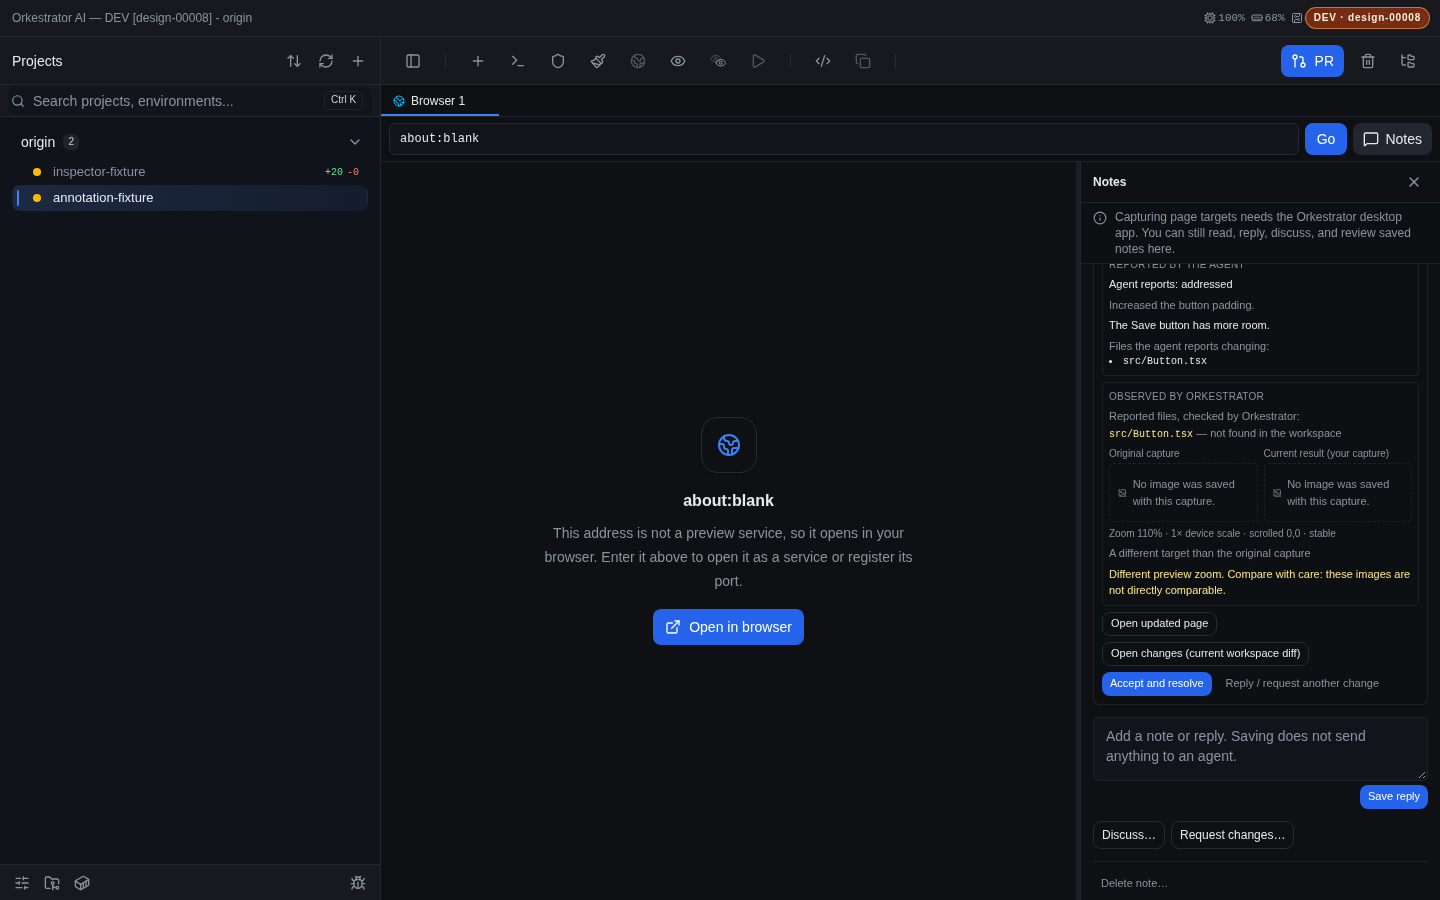
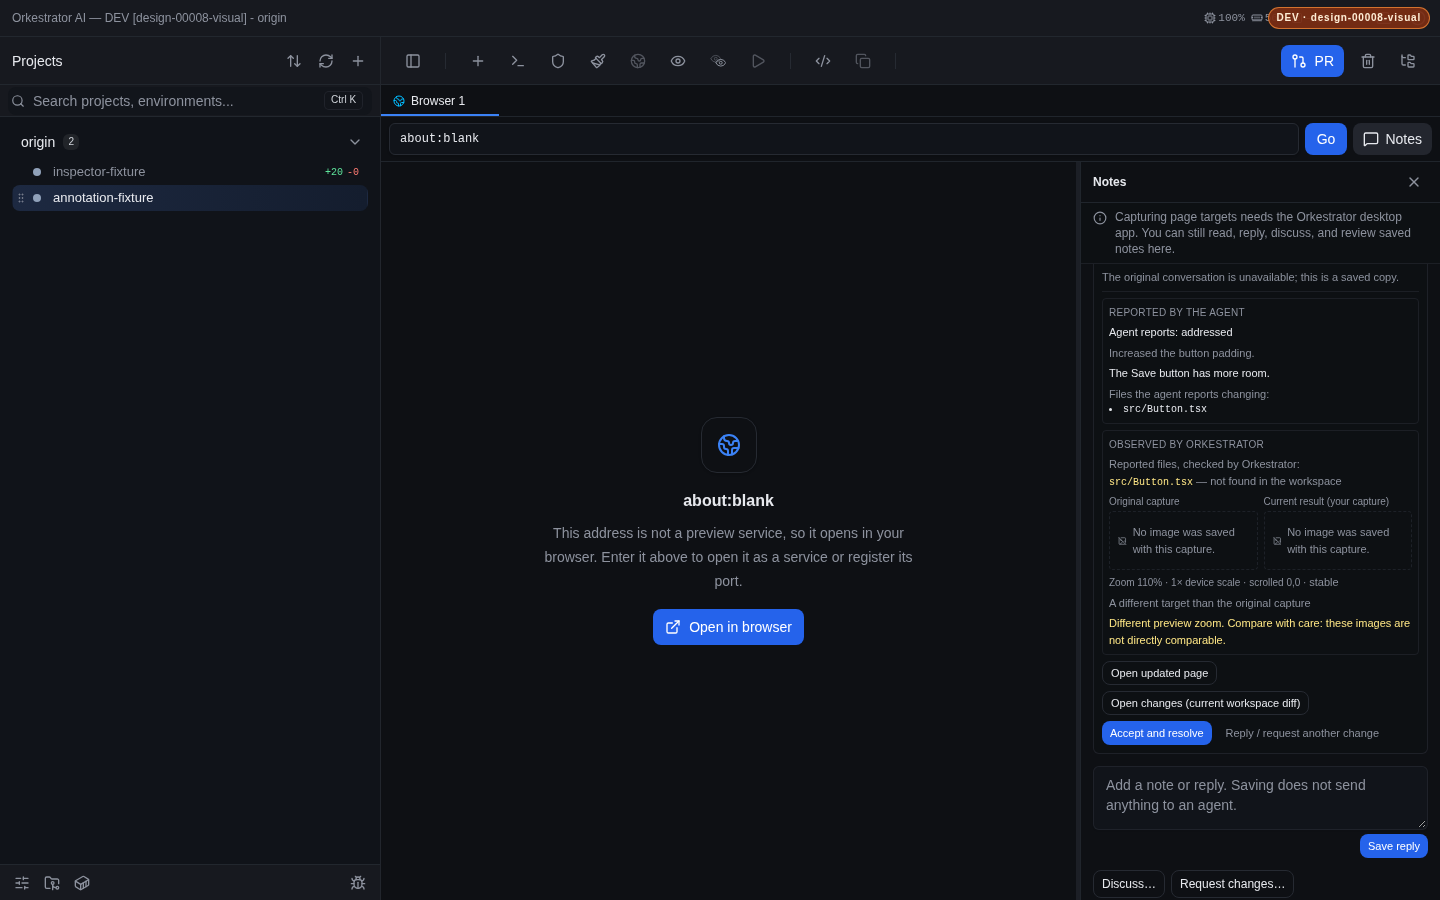
fix(web): address inspector and annotation typography review

diff --git a/design/00008-small-text-errors-design-annotations.html b/design/00008-small-text-errors-design-annotations.html
@@ -236,27 +236,29 @@
       <h2>Verification</h2>
       <pre><code>mise run test:logged -- --name web-typecheck -- bun run --cwd apps/web typecheck
 NODE_ENV=test mise run test:logged -- --name design-annotations -- bun test --cwd apps/web ./src/components/design ./src/components/browser/annotations --parallel=2 --only-failures
+mise run test:logged -- --name inspector-layout -- bun scripts/loopback-network.ts --free-port ORKESTRATOR_E2E_PORT -- bunx playwright test --config e2e/playwright.config.ts e2e/DesignCanvas.spec.ts --grep 'long computed width' --workers=2
 mise run format:check
 mise run lint</code></pre>
       <p class="note">
         React tests in this repo need <code>NODE_ENV=test</code> in build shells. Real-browser
-        check: use the <code>design-00008</code> fixture profile.
+        check: use an isolated fixture profile, such as <code>design-00008-visual</code>.
       </p>
-      <pre><code>env -u DISPLAY -u WAYLAND_DISPLAY ORKESTRATOR_HOST_REACHABILITY_CHECK=off mise run dev:test --profile design-00008 --fixture --headless --no-host-seed --no-agent-credentials --agent-platforms codex</code></pre>
+      <pre><code>env -u DISPLAY -u WAYLAND_DISPLAY ORKESTRATOR_HOST_REACHABILITY_CHECK=off mise run dev:test --profile design-00008-visual --fixture --headless --no-host-seed --no-agent-credentials --agent-platforms codex</code></pre>
       <p class="note">
-        The captures use the dark theme at 100% app zoom and device scale 1. Baseline revision
-        <code>b2c91abb9</code> was captured before any source edit. The isolated backend held the
-        exported design, annotation replies, and completed request fixture. A blocked reply-save
-        request produced the recoverable error. Reloading restored the saved design tab and
-        annotation threads before replaying the same actions.
+        The captures use the dark theme at 100% app zoom and device scale 1. The refreshed inspector
+        and result-review pairs use the same isolated profile and fixture data per pair. The before
+        captures loaded the affected renderer modules from baseline <code>259e88d90</code>.
+        Both inspector captures at each width select Save and show the invalid Width draft at
+        100% canvas zoom. The original annotation-thread pair uses baseline <code>b2c91abb9</code>
+        and a blocked reply-save request to show the recoverable error.
       </p>
 
       <h2>Acceptance checklist</h2>
       <ul class="check">
         <li>
           <input type="checkbox" aria-label="Done" checked /><span
-            >Before images captured on <b>unmodified</b> code for every slot above, and committed
-            under <code>design/images/00008/</code>.</span
+            >Before images captured with the <b>baseline</b> renderer code for every slot above,
+            and committed under <code>design/images/00008/</code>.</span
           >
         </li>
         <li>
@@ -321,10 +323,10 @@ mise run lint</code></pre>
           note (state/error, 11px).
         </li>
         <li>
-          <code>ResultReview</code> — capture captions (two), capture conditions, report and
-          observation headings (two), and reported file paths (metadata, 10px). Target match and
-          comparison warning (state/error, 11px). In each observed file-check row, the path is
-          metadata at 10px and the outcome is state at 11px.
+          <code>ResultReview</code> — capture captions, zoom, device scale, scroll, redaction count,
+          report and observation headings, and reported file paths (metadata, 10px). Capture
+          stability, target match, and comparison warnings are states at 11px. In each observed
+          file-check row, the path uses 10px and the outcome uses 11px.
         </li>
         <li>
           <code>AnnotationThread</code> — legacy reference text, captured attributes, styles, and
@@ -343,7 +345,12 @@ mise run lint</code></pre>
         <li>
           Change individual inspector and annotation states at their existing locations. A blanket
           replacement would also enlarge evidence metadata and action labels. Result-review states
-          inherit the panel’s 11px size, with an explicit 10px override on each file path.
+          use 11px, including stability within the 10px capture measurements.
+        </li>
+        <li>
+          Keep the Changed marker and computed value on a single line. Long computed values can
+          truncate within the remaining space. The complete value is available in the field’s
+          accessible description and in the status tooltip.
         </li>
         <li>
           Treat <code>New</code> as state even on a filled background because it tells readers which
@@ -356,8 +363,8 @@ mise run lint</code></pre>
       <ul>
         <li>
           <a href="#cap-design-inspector-error-desktop">Inspector, desktop</a>. The invalid width
-          message and computed value are larger. The computed value moves below the Changed marker,
-          and the error fits on one line. Apply styles stays disabled.
+          message and computed value are larger. The Changed marker and computed value share one
+          line, and the error fits on one line. Apply styles stays disabled.
         </li>
         <li>
           <a href="#cap-design-inspector-error-narrow">Inspector, narrow</a>. The 390px layout keeps
@@ -367,8 +374,8 @@ mise run lint</code></pre>
         <li>
           <a href="#cap-annotation-result-review-desktop">Annotation result review, desktop</a>. The
           missing-file outcome, target-match line, and zoom mismatch warning are larger. The warning
-          wraps within the Notes panel. Capture captions and conditions remain secondary metadata.
-          The saved result fixture contains comparison metadata without image assets.
+          wraps within the Notes panel. Stable and unstable use 11px alongside the 10px capture
+          measurements. The saved result fixture contains comparison metadata without image assets.
         </li>
         <li>
           <a href="#cap-annotation-thread-desktop">Annotation thread, desktop</a>. The unread

diff --git a/e2e/DesignCanvas.spec.ts b/e2e/DesignCanvas.spec.ts
@@ -47,6 +47,58 @@ test("pageLoad preserves unlimited timeouts", async ({ page }, testInfo) => {
   expect(testInfo.timeout).toBe(0);
 });
 
+test("the inspector keeps a long computed width beside the Changed marker", async ({ page }) => {
+  const dir = await mkdtemp(join(tmpdir(), "ork-design-width-"));
+  const worktree = join(dir, "worktree");
+  await mkdir(worktree);
+  const service = startDesignServiceHost(dir, worktree);
+  try {
+    const canvas = await service.create("design-fixture", "Inspector width");
+    await service.createFrame(canvas.id, "design-fixture", 1, {
+      name: "Screen",
+      x: 0,
+      y: 0,
+      width: 420,
+      height: 300,
+      html: '<button id="save" style="width:12345.678px">Save</button>',
+    });
+    await page.exposeFunction("designInvoke", service.invoke);
+    await page.setViewportSize(
+      page.viewportSize()!.width < 600 ? { width: 390, height: 844 } : { width: 1440, height: 900 },
+    );
+    await pageLoad(() => page.goto(`/design-canvas?canvasId=${canvas.id}`));
+    const layers = page.getByRole("navigation", { name: "Design hierarchy" });
+    if (!(await layers.isVisible())) {
+      await page.getByRole("button", { name: "Toggle layers", exact: true }).click();
+    }
+    const frameRow = layers.getByRole("treeitem", { name: /^Screen, \d+ elements$/ });
+    if ((await frameRow.getAttribute("aria-expanded")) !== "true") {
+      await frameRow.press("Enter");
+    }
+    await layers.getByRole("treeitem", { name: "save (button)", exact: true }).press("Enter");
+
+    const width = page.getByRole("textbox", { name: "Width", exact: true });
+    await width.fill("invalid");
+    await expect(width).toHaveAccessibleDescription(/Not a valid value for width.*computed 12345/);
+    await expect(page.getByRole("button", { name: "Apply styles" })).toBeDisabled();
+
+    const field = page.locator('[data-property="width"]');
+    const marker = field.getByText("Changed ·", { exact: true });
+    const computed = field.getByText(/^computed 12345/);
+    await expect(computed).toHaveCSS("font-size", "11px");
+    await expect(computed).toHaveCSS("text-overflow", "ellipsis");
+    const markerBox = (await marker.boundingBox())!;
+    const valueBox = (await computed.boundingBox())!;
+    expect(valueBox.y).toBeCloseTo(markerBox.y, 0);
+    expect(valueBox.x).toBeGreaterThan(markerBox.x + markerBox.width);
+    expect(valueBox.width).toBeGreaterThan(0);
+    expect(await computed.evaluate((node) => node.scrollWidth > node.clientWidth)).toBe(true);
+  } finally {
+    await service.close();
+    await rm(dir, { recursive: true, force: true });
+  }
+});
+
 test("canvas edits, script isolation, missed events, conflict and reload", async ({
   page,
 }, testInfo) => {

diff --git a/apps/web/src/components/browser/annotations/result-labels.ts b/apps/web/src/components/browser/annotations/result-labels.ts
@@ -30,21 +30,25 @@ export function percent(value: number) {
   return `${Math.round(value * 100)}%`;
 }
 
-/** "Zoom 110% · 2× device scale · scrolled 0,480 · stable" (only known parts). */
-export function captureConditionsLabel(meta: WebAnnotationResultCaptureMetadata): string | null {
-  const parts: string[] = [];
-  if (typeof meta.zoomFactor === "number") parts.push(`Zoom ${percent(meta.zoomFactor)}`);
+/** Known capture conditions, with stability marked as a status. */
+export function captureConditionLabels(meta: WebAnnotationResultCaptureMetadata) {
+  const parts: Array<{ text: string; status?: true }> = [];
+  if (typeof meta.zoomFactor === "number") parts.push({ text: `Zoom ${percent(meta.zoomFactor)}` });
   if (typeof meta.deviceScaleFactor === "number") {
-    parts.push(`${meta.deviceScaleFactor}× device scale`);
+    parts.push({ text: `${meta.deviceScaleFactor}× device scale` });
   }
   if (meta.scroll) {
-    parts.push(`scrolled ${Math.round(meta.scroll.x)},${Math.round(meta.scroll.y)}`);
+    parts.push({ text: `scrolled ${Math.round(meta.scroll.x)},${Math.round(meta.scroll.y)}` });
   }
-  if (meta.stability) parts.push(meta.stability === "stable" ? "stable" : "unstable");
+  if (meta.stability) {
+    parts.push({ text: meta.stability === "stable" ? "stable" : "unstable", status: true });
+  }
   if (meta.masks && meta.masks.length > 0) {
-    parts.push(`${meta.masks.length} redaction${meta.masks.length === 1 ? "" : "s"} reapplied`);
+    parts.push({
+      text: `${meta.masks.length} redaction${meta.masks.length === 1 ? "" : "s"} reapplied`,
+    });
   }
-  return parts.length ? parts.join(" · ") : null;
+  return parts;
 }
 
 const TARGET_MATCH: Record<WebAnnotationComparisonMetadata["targetMatch"], string> = {

diff --git a/apps/web/src/components/browser/annotations/ResultReview.tsx b/apps/web/src/components/browser/annotations/ResultReview.tsx
@@ -1,4 +1,4 @@
-import { useEffect, useState } from "react";
+import { Fragment, useEffect, useState } from "react";
 import type {
   WebAnnotationCapture,
   WebAnnotationCheck,
@@ -13,7 +13,7 @@ import { AnnotationImage } from "./AnnotationImage";
 import { useAnnotationPanel } from "./panel-context";
 import { ResultCapture } from "./ResultCapturePrompt";
 import {
-  captureConditionsLabel,
+  captureConditionLabels,
   citedEvidenceLabel,
   comparisonLabels,
   fileCheckLabel,
@@ -68,7 +68,7 @@ function Comparison({
   const after = useCapture(environmentId, afterCaptureId);
   const labels = comparisonLabels(before, after, recorded);
   const metadata = recorded ?? after?.comparison ?? null;
-  const conditions = metadata ? captureConditionsLabel(metadata) : null;
+  const conditions = metadata ? captureConditionLabels(metadata) : [];
   return (
     <div className="space-y-1" data-comparison={afterCaptureId}>
       <div className="grid grid-cols-2 gap-1.5">
@@ -91,9 +91,14 @@ function Comparison({
           />
         </figure>
       </div>
-      {conditions && (
+      {conditions.length > 0 && (
         <p className="text-[10px] text-muted-foreground" data-capture-conditions>
-          {conditions}
+          {conditions.map(({ text, status }, index) => (
+            <Fragment key={text}>
+              {index > 0 && " · "}
+              {status ? <span className="text-[11px]">{text}</span> : text}
+            </Fragment>
+          ))}
         </p>
       )}
       {metadata && (

diff --git a/apps/web/src/components/browser/annotations/ResultReview.test.tsx b/apps/web/src/components/browser/annotations/ResultReview.test.tsx
@@ -24,7 +24,7 @@ import {
   useAnnotationUiTestBudget,
 } from "@/test/web-annotation-harness";
 import {
-  captureConditionsLabel,
+  captureConditionLabels,
   citedEvidenceLabel,
   comparisonLabels,
   hasAgentReport,
@@ -170,10 +170,11 @@ describe("result labels", () => {
   });
 
   test("capture conditions list only what the desktop reported", () => {
-    expect(captureConditionsLabel({})).toBeNull();
-    expect(captureConditionsLabel({ stability: "stable", zoomFactor: 1 })).toBe(
-      "Zoom 100% · stable",
-    );
+    expect(captureConditionLabels({})).toEqual([]);
+    expect(captureConditionLabels({ stability: "stable", zoomFactor: 1 })).toEqual([
+      { text: "Zoom 100%" },
+      { text: "stable", status: true },
+    ]);
   });
 
   test("agent report presence follows reportedRevision, with a fallback for older records", () => {

diff --git a/apps/web/src/components/design/DesignStyleField.tsx b/apps/web/src/components/design/DesignStyleField.tsx
@@ -273,9 +273,13 @@ export function DesignStyleField({
         )}
       </div>
       {(changed || showComputed) && (
-        <p id={stateId} className="text-[11px] text-muted-foreground" title={computed}>
-          {changed ? <span className="text-primary">Changed · </span> : null}
-          <span className="inline-block max-w-full truncate align-bottom">
+        <p
+          id={stateId}
+          className="flex min-w-0 gap-1 text-[11px] text-muted-foreground"
+          title={computed}
+        >
+          {changed ? <span className="shrink-0 text-primary">Changed · </span> : null}
+          <span className="min-w-0 truncate">
             {computed ? `computed ${computed}` : "not applied"}
           </span>
         </p>
